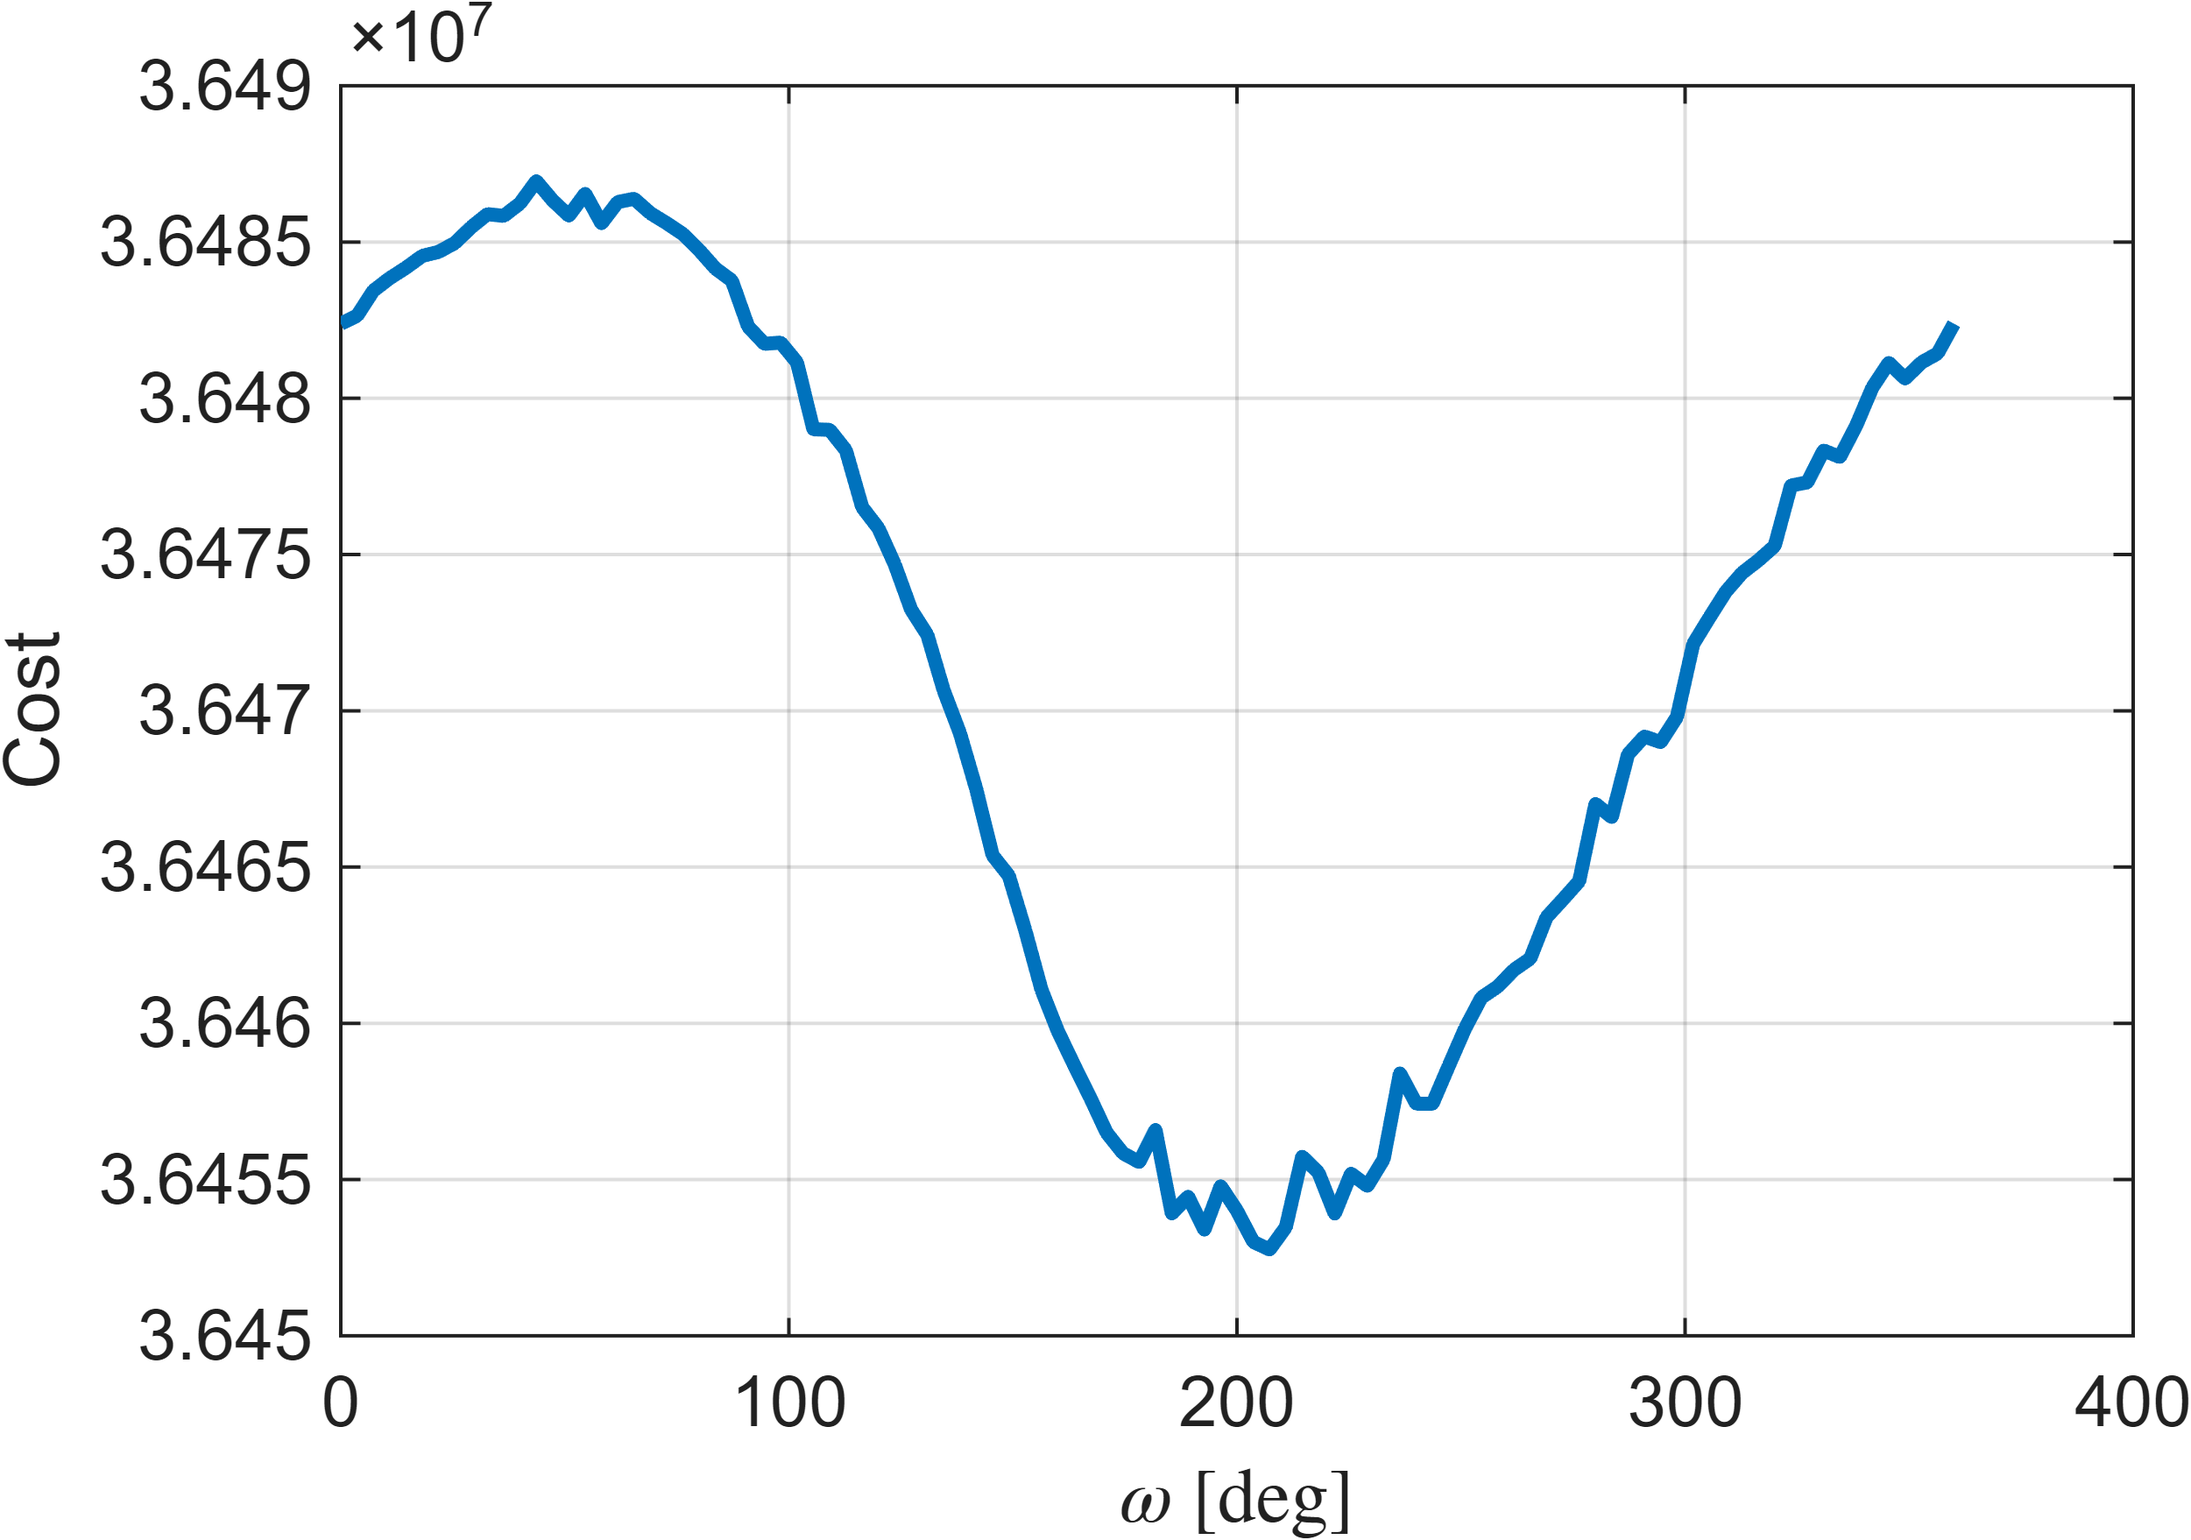
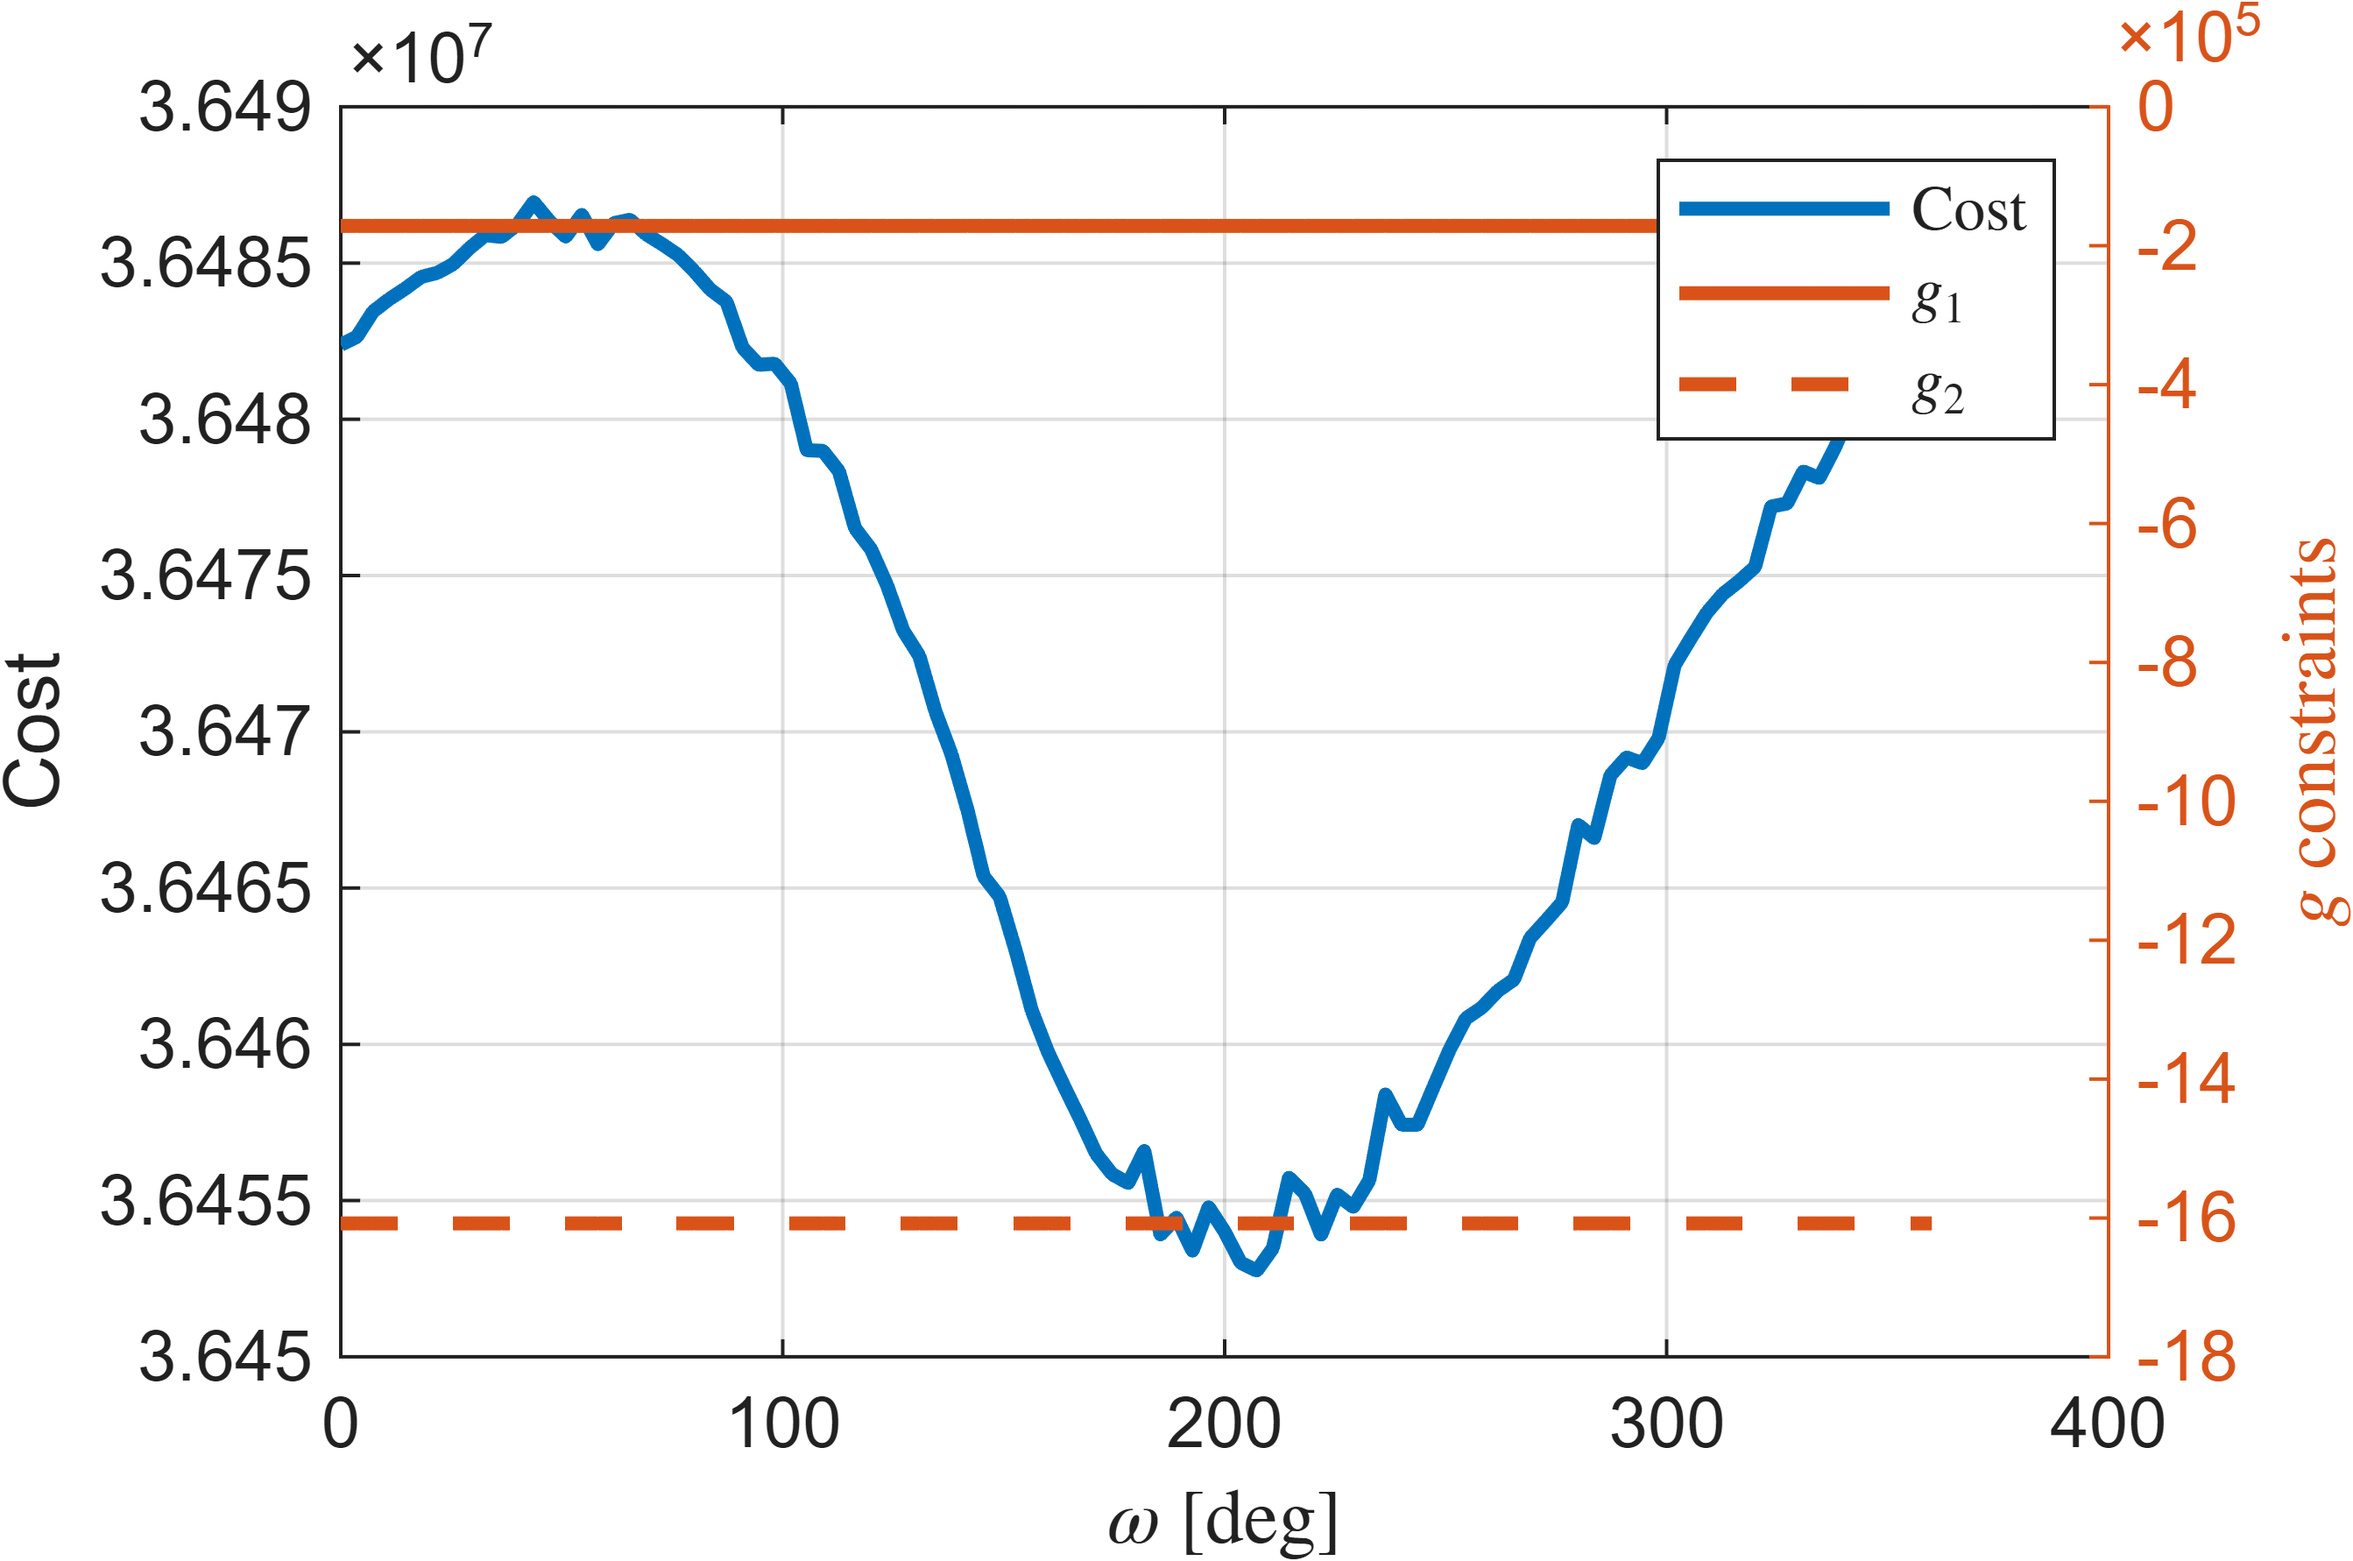
add constraints

diff --git a/main.m b/main.m
@@ -30,6 +30,20 @@ fprintf('Initial cost: \t\t%d\n', initial_cost)
 fprintf('Computation time: \t%.2f s\n', dt)
 
 %%%%%%%%%%%%%%%%%%%%%%%%%%%%%%%%%%%%%%%%%%%%%%%%%%%%%%%%%%
+% CONSTRAINTS %%%%%%%%%%%%%%%%%%%%%%%%%%%%%%%%%%%%%%%%%%%%
+%%%%%%%%%%%%%%%%%%%%%%%%%%%%%%%%%%%%%%%%%%%%%%%%%%%%%%%%%%
+
+fprintf('================== CONSTRAINTS ==================\n')
+
+settings.min_altitude = 200e3; % Minimum altitude [m]
+settings.max_altitude = 2000e3; % Maximum altitude [m]
+
+fprintf('Minimum altitude: \t%.2f km\n', settings.min_altitude / 1e3)
+fprintf('Maximum altitude: \t%.2f km\n', settings.max_altitude / 1e3)
+
+g = constellation_constr(settings);
+
+%%%%%%%%%%%%%%%%%%%%%%%%%%%%%%%%%%%%%%%%%%%%%%%%%%%%%%%%%%
 % INITIAL ANALYSIS %%%%%%%%%%%%%%%%%%%%%%%%%%%%%%%%%%%%%%%
 %%%%%%%%%%%%%%%%%%%%%%%%%%%%%%%%%%%%%%%%%%%%%%%%%%%%%%%%%%
 
@@ -41,20 +55,30 @@ settings.num_sats = 1;
 
 n = 100;
 f1 = constellation_obj_fun(settings);
+g1 = constellation_constr(settings);
 domains = zeros(6, n);
 costs = zeros(6, n);
+constraints1 = zeros(6, n);
+constraints2 = zeros(6, n);
 
 % For each variable, try changing it to its lower and upper bound and plot the cost function value
 parfor i = 1:length(y0)
     y0_temp = y0;
 
     fi = @(v) f1([y0_temp(1:i - 1); v; y0_temp(i + 1:end)]); %#ok<PFBNS>
+    gi = @(v) g1([y0_temp(1:i - 1); v; y0_temp(i + 1:end)]); %#ok<PFBNS>
 
     domain = linspace(lb(i), ub(i), n);
     cost = arrayfun(fi, domain);
 
+    constraint = arrayfun(gi, domain, UniformOutput = false);
+    constraint = cell2mat(constraint);
+
     domains(i, :) = domain;
     costs(i, :) = cost;
+    constraints1(i, :) = constraint(1, :);
+    constraints2(i, :) = constraint(2, :);
+
 end
 
 for i = 1:length(y0)
@@ -62,12 +86,21 @@ for i = 1:length(y0)
 
     domain = domains(i, :);
     cost = costs(i, :);
+    constraint1 = constraints1(i, :);
+    constraint2 = constraints2(i, :);
 
     figure;
     plot(kep_values(domains(i, :), i), costs(i, :), 'LineWidth', 2);
     xlabel(kep_label(i), Interpreter = "latex")
     ylabel('Cost')
+    % Plot constraints on a different y-axis
+    yyaxis right;
+    plot(kep_values(domains(i, :), i), constraint1, 'LineWidth', 2);
+    hold on;
+    plot(kep_values(domains(i, :), i), constraint2, 'LineWidth', 2);
+    ylabel('$g$ constraints', Interpreter = "latex")
     grid on;
+    legend('Cost', '$g_1$', '$g_2$', Interpreter = "latex")
     savefig(sprintf('boundedness_%d.png', i), [3 2]),
 end
 

diff --git a/lib/model/constellation_constr.m b/lib/model/constellation_constr.m
@@ -1,0 +1,31 @@
+function g = constellation_constr(settings)
+    % constellation_constr: Returns the constraint function for constellation optimization based on the provided settings.
+    %
+    % Parameters:
+    %   settings: A struct containing the settings for the constellation optimization, including:
+    %       - num_sats: Number of satellites in the constellation
+    %       - h_min: Minimum altitude for the satellites [m]
+    %       - h_max: Maximum altitude for the satellites [m]
+    %
+    % Returns:
+    %   g: A function handle that takes the initial state of the constellation and returns the constraint values based on the altitude limits.
+
+    function v = impl(y0)
+        v = zeros(settings.num_sats * 2, 1);
+        y0 = reshape(y0, 6, settings.num_sats);
+
+        for idx = 1:settings.num_sats
+            x_kep = y0(1:6, idx);
+            a = x_kep(1);
+            e = x_kep(2);
+            h_min = a * (1 - e) - constants.Earth.r;
+            h_max = a * (1 + e) - constants.Earth.r;
+
+            indices = (1:2) + (idx - 1) * 2;
+            v(indices) = [settings.min_altitude - h_min; h_max - settings.max_altitude];
+        end
+
+    end
+
+    g = @impl;
+end
